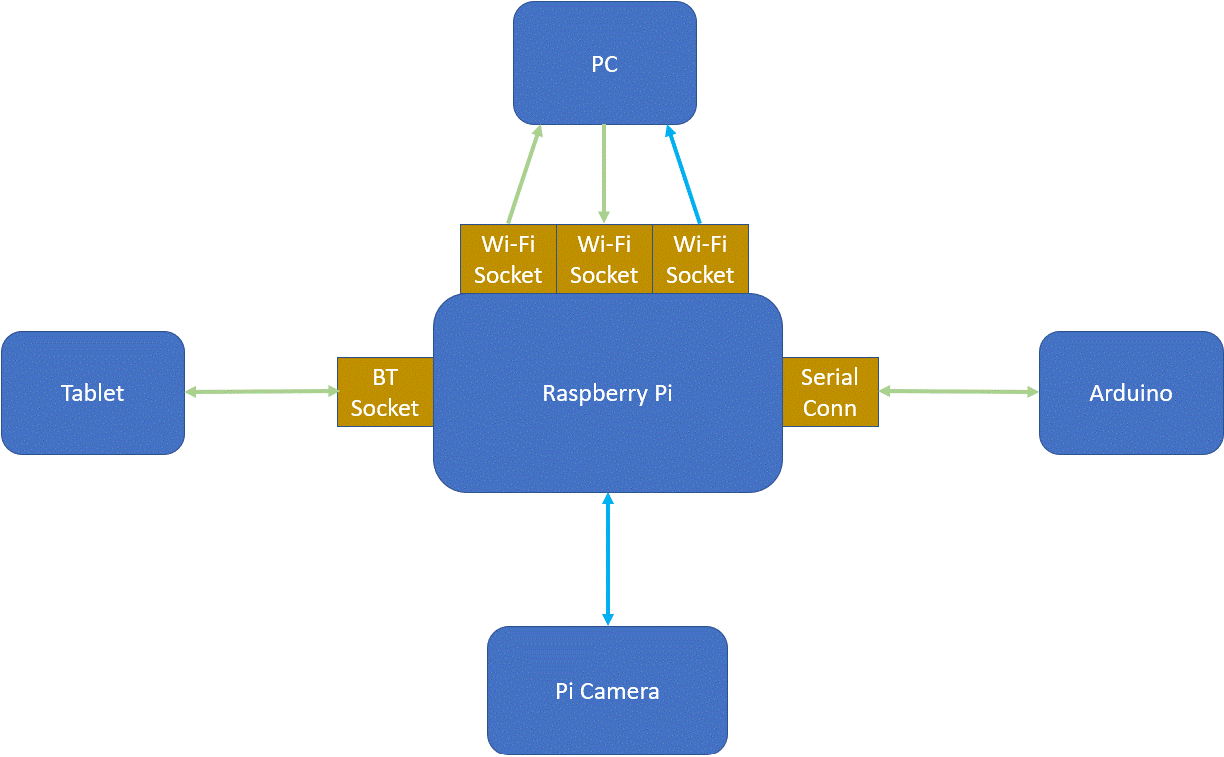
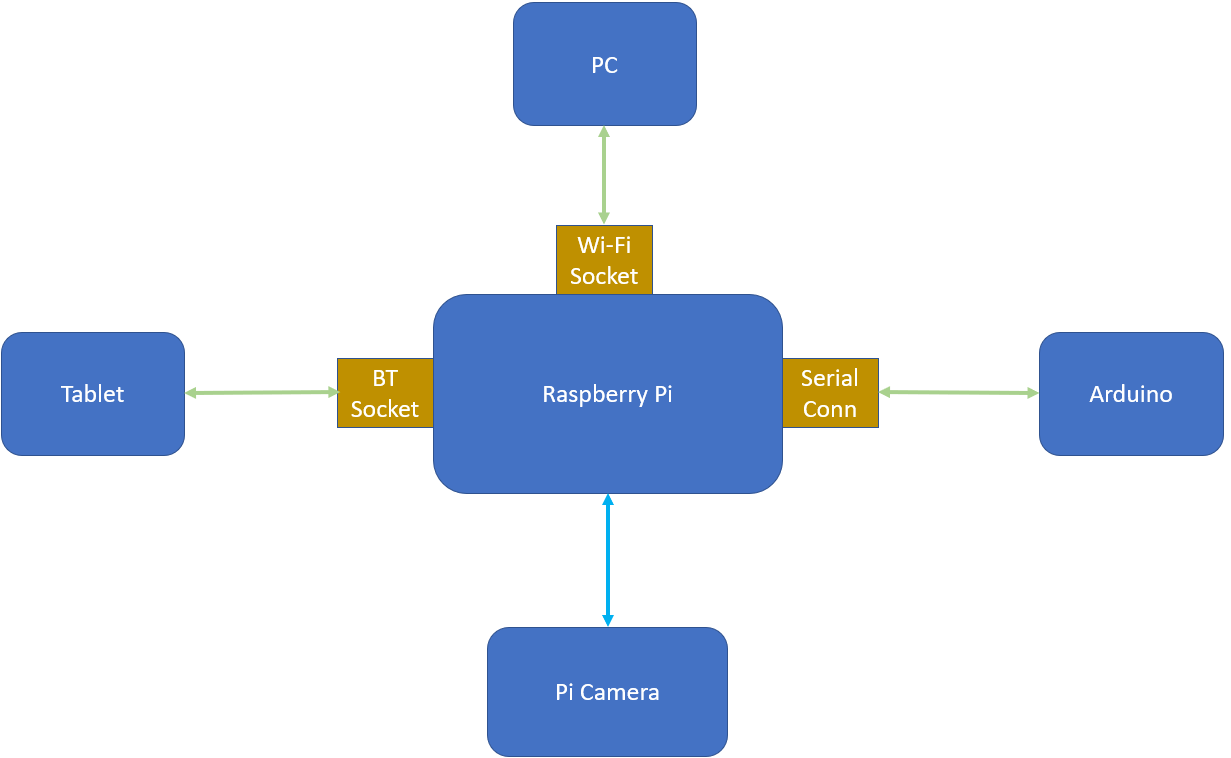
Updated README.md

diff --git a/README.md b/README.md
@@ -18,56 +18,6 @@ each grid having a size of 10cm x 10cm
     * Move to the goal using the found shortest path
 * Manually control the robot when desired
 
-## Checklist
-This section is for tracking requirements for the various teams.
-
-##### Android
-* [ ] Transmit and receive text strings over Bluetooth
-* [ ] Functional GUI to initiate exploration
-* [ ] Functional GUI to provide interactive control of robot
-* [ ] Functional GUI to indicate current status of robot
-* [ ] Functional GUI to select fastest path and robot start 
-co-ordinates
-* [ ] 2D display of maze environment
-* [ ] Functional GUI that provides selection of Manual or Auto 
-updating of graphical display of maze environment
-* [ ] Functional GUI that provides 2 buttons that supports
-persistent user reconfigurable stirng commands to robot
-* [ ] Robust connectivity with Pi through Bluetooth
-* [ ] Display Number ID blocks in the Grid Map
-* [ ] (Extension) Novel robot movement control
-* [ ] (Extension) Provide button-activated toggle between 2D grid map and 3D
-first person view 
-* [ ] (Extension) 2.5D view of current known map and robot
-* [ ] Testing code
-
-##### Algorithms
-* [ ] Detect and recognise images
-* [x] Obstacle avoidance and position recovery (straight line)
-* [ ] Arena exploration simulator
-* [ ] Fastest path computation simulator
-* [x] Generate map descriptor
-* [ ] Time and coverage-limited exploration simulation
-* [ ] (Extension) Obstacle avoidance and position recovery (obstacle)
-* [ ] (Extension) Generate and display map on PC
-* [ ] Testing code
-
-##### Raspberry Pi
-* [x] Accessed by PC through Wifi
-* [x] Accessed by Tablet through Bluetooth
-* [x] Communicate with Arduino through USB Serial
-* [x] Pass information among devices (Tablet to send character to
-Arduino, Arduino to increase by 1, send back to Pi, send to PC and 
-display)
-* [ ] Testing code
-
-##### Arduino
-* [ ] Sensors calibrated to correctly return distance to obstacle
-(Error tolerance: -6% to 6% of target distance)
-* [ ] Accurate straight line motion
-* [ ] Accurate rotation
-* [ ] Testing code
-
 ## Pre-requisite
 The repository requires (but is not limited to) the 
 following libraries to execute on a Linux, Windows and Darwin 
@@ -101,20 +51,28 @@ A simplified system architecture diagram is as follows:
 
 ![](config/Images/System%20Architecture.png)
 
-The Raspberry Pi uses a total of 5 Sockets:
-1. Bluetooth socket
-2. Serial "Socket"
-3. Wifi Socket x 3
+In the system architecture, the PC will be running the algorithms. 
+The Raspberry Pi will be routing data to their respective destinations. 
+Tablet will control the function to be run, whereas the Arduino connection 
+will facilitate movement as dictated by PC. The Pi Camera input will only be
+used for Image Recognition. 
 
-### Bluetooth Socket
+## Raspberry Pi
+The Raspberry Pi uses a total of 3 connections:
+1. Bluetooth Connection
+2. Serial Connection
+3. Wifi Connection
+
+### Bluetooth Connection
 The bluetooth socket is used for connecting with the tablet. It 
 uses RFCOMM protocol for connection. The socket binds a MAC 
 address before listening to devices for connection. 
 
 Upon successful connection, Raspberry Pi creates 2 queues and 
 2 threads. 1 queue to handle data receiving, 1 queue to handle 
-data sending and 1 thread for each queue. As mentioned in the 
-Data Standards table, this connection uses Arrays to 
+data sending and 1 thread for each queue. This method of implementation
+ is done as Socket.recv() is a blocking function. As mentioned in the 
+Data Standards table, this connection uses Bytes to 
 send/receive data.
 
 ### Serial Connection
@@ -123,7 +81,7 @@ Raspberry Pi creates an instance of Serial object using the name
 of the port connected to the Arduino board. Like the Bluetooth 
 socket, the Serial Connection creates 2 queues and 2 threads; 1
  queue for sending, 1 queue for receiving and 1 thread for each 
- queue. This method of implementation is done as Serial.read()
+ queue. This method of implementation is done as Serial.readline()
  is a blocking function.
 
 For the recv function, it checks the buffer size for the size 
@@ -134,25 +92,63 @@ For the send function, the msg to be sent is directly written
 to the Serial Connection. As mentioned in the Data Standards table,
  this connection uses String to send/receive data.
 
-### Wifi Socket
+#### Wifi Socket
 The Wifi Socket is used to connect to the PC. It starts a queue 
 and thread for each instantiation of the Server class. This way
 of implementing was done as there were concerns regarding latency.
 As mentioned in the Data Standards table, this connection uses 
 Arrays to send/receive data.
 
-For the first Wifi Socket instantiation, it binds the port 7777 to
+The Wifi Socket instantiation binds the port 7777 to
 a socket before listening for requests to connect on this port. 
 This connection would then be used for sending data to the PC.
 
-For the second Wifi Socket instantiation, it binds the port 8888 to
-a socket before listening for requests to connect on this port. 
-This connection would then be used for receiving data from the PC.
+## Algorithm
 
-For the last Wifi Socket instantiation, it binds the port 9999 to
-a socket before listening for requests to connect on this port. 
-This connection would then be used for sending stream data from
- the Pi Camera to the PC.
+### Exploration
+For exploring the given arena, right wall hugging is used.
+
+#### Turning right
+One of the following conditions must be fulfilled:
+* Coordinates on right side are within map and unexplored
+* No obstacle on right (The variable check_right_empty is used as there is
+a blind spot on the right side of the robot.)
+
+Once the robot turns right, update the direction of the robot.
+
+#### Conditions to turn left
+The following conditions must be fulfilled:
+* Obstacle/wall on right
+* Obstacle in front
+
+Once the robot turns left, get the coordinates of the front of the robot 
+and add them to the list of obstacle coordinates if the obstacle is in 
+front of the robot. Update the direction of the robot thereafter.
+
+#### Conditions to advance
+The following condition must be fulfilled:
+* No obstacle in front and obstacle/wall on right
+
+If the right obstacle is within the map, add them to the list of obstacle
+coordinates. Update position of the robot thereafter.
+
+#### After movement
+
+Once a movement is decided, the robot will use the sensor on the left to 
+check for obstacle. 
+
+If distance is lower than range of sensor, there must be an obstacle on the 
+left. Hence, get the last set of coordinate of obstacle and add to list of
+obstacle coordinates. For the rest of the coordinates, add them to list of 
+explored coordinates. 
+
+With the list of explored and obstacle coordinates, update the explored map
+and real map accordingly.
+
+### Fastest Path
+
+A star search algorithm is used to find the fastest path from start point to 
+waypoint, and then from waypoint to goal point.
 
 ## To Run
 Execute the command `python3 main.py` to start.
@@ -181,8 +177,7 @@ The project is done by the following teams:
 ## Note
 In explore.py, the coordinates declared for the position of the 
 robot on the map are done with respect to the numpy array initialised
-with map_size, i.e. if map_size is declared to be (15, 20), then
- numpy array created should be 
+with size (15, 20). Visualisation of the array is as follows:
 
 [[0. 0. 0. 0. 0. 0. 0. 0. 0. 0. 0. 0. 0. 0. 0. 0. 0. 0. 0. 0.]
 
@@ -214,5 +209,5 @@ with map_size, i.e. if map_size is declared to be (15, 20), then
  
  [0. 0. 0. 0. 0. 0. 0. 0. 0. 0. 0. 0. 0. 0. 0. 0. 0. 0. 0. 0.]]
  
- and self.start_pos is declared to be bottom right and self.goal
- is declared to be top left of the array.
+ and self.start_pos is declared to be top left and self.goal
+ is declared to be bottom right of the array.
